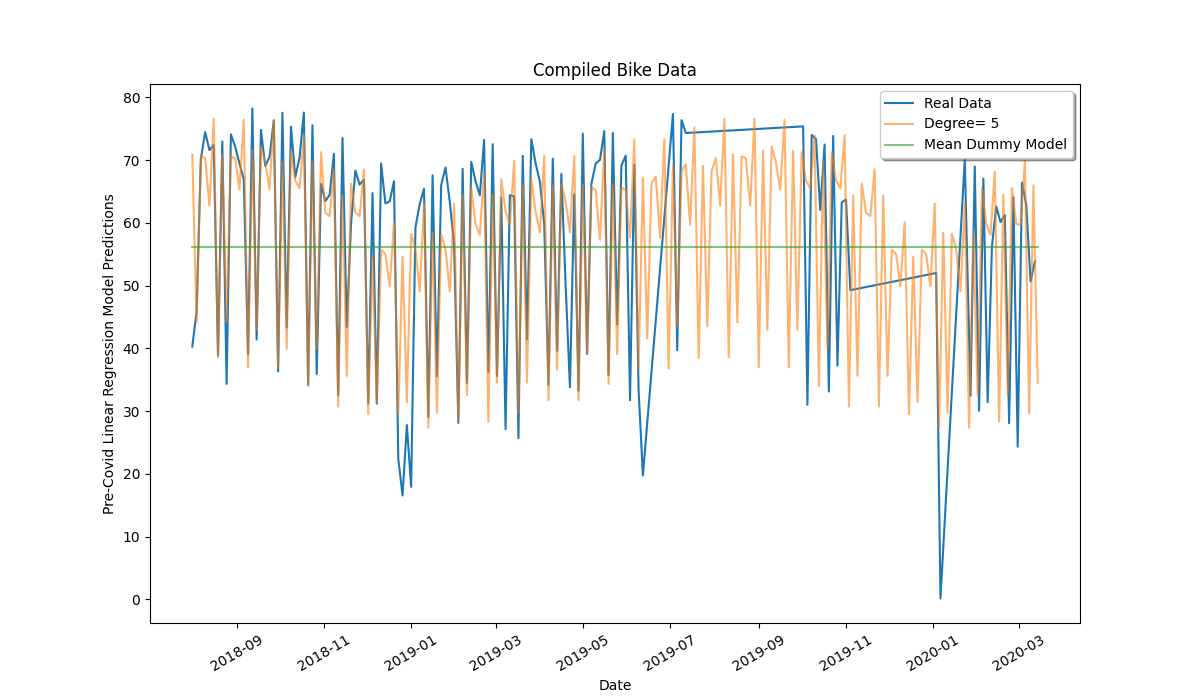
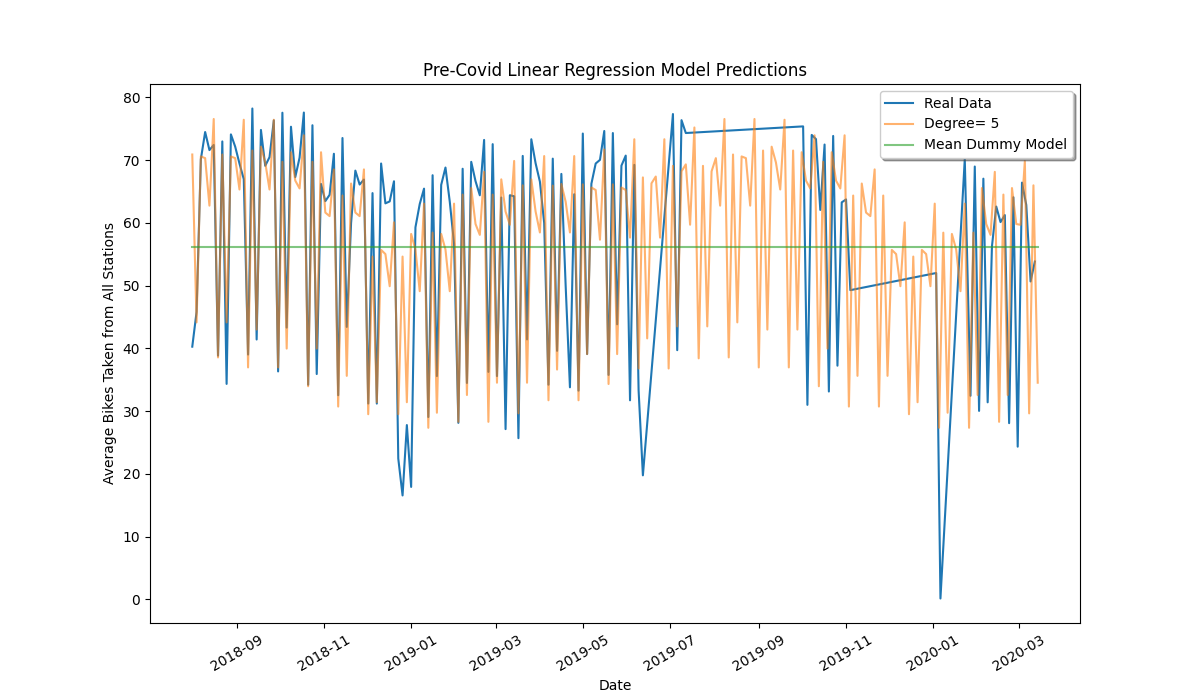
done?

Changed region(s): [[0.0617, 0.33, 0.0925, 0.69], [0.3392, 0.09, 0.6783, 0.12]]

diff --git a/final/main.py b/final/main.py
@@ -1,3 +1,4 @@
+import datetime
 import os.path
 import pandas as pd
 import numpy as np
@@ -7,6 +8,7 @@ from sklearn.dummy import DummyRegressor
 from sklearn.metrics import r2_score
 from sklearn.linear_model import LinearRegression
 from sklearn.preprocessing import PolynomialFeatures
+from statsmodels.tsa.arima.model import ARIMA
 from readfiles import readFiles
 
 plt.rcParams['figure.figsize'] = [12, 7]
@@ -58,7 +60,7 @@ pcWeekDays = weekDays[precovidBA]
 
 # X's: month, weekday
 # Y: Usage
-X = np.column_stack((pcWeekDays,pcMonths))
+pcX = np.column_stack((pcWeekDays,pcMonths))
 
 ## Train and test various models to find best fit parameters
 #Create test X's
@@ -77,7 +79,7 @@ degreePoly = [1, 2, 5, 7]
 for degree in degreePoly:
     #Train and Test
     plt.plot(pcDates[::3], pcUsages[::3])
-    polyX = PolynomialFeatures(degree).fit_transform(np.array(X))
+    polyX = PolynomialFeatures(degree).fit_transform(np.array(pcX))
 
     model = LinearRegression()
     model.fit(polyX, pcUsages)
@@ -96,10 +98,10 @@ for degree in degreePoly:
 
     plt.xticks(rotation=30)
     plt.xlabel("Date")
-    plt.ylabel("Pre-Covid Linear Regression Model Predictions")
+    plt.ylabel("Average Bikes Taken from All Stations")
     stringdegree = "Degree= " + int.__str__(degree)
     plt.legend(["Real Data", stringdegree, "Mean Dummy Model"], loc='upper right',fancybox=True, shadow=True)
-    plt.title("Compiled Bike Data")
+    plt.title("Pre-Covid Linear Regression Model Predictions")
     stringname = "featuremodel" + int.__str__(degree)
     plt.savefig('./Report/' + stringname)
     plt.show()
@@ -111,5 +113,40 @@ for degree in degreePoly:
     print("Mean Dummy model (Degree = ", degree, "):")
     print(r2_score(pcUsages, ydummy[dateisInTestingBA]))
 
+#Best model was the one with degree five
+#Use model trained on pre-covid data to predict
+    
+#Train
 
+polyX = PolynomialFeatures(5).fit_transform(np.array(pcX))
+model = LinearRegression()
+model.fit(polyX, pcUsages)
+
+#Create predict X's
+range = pd.date_range(start="2018-08-01",end="2023-12-31")
+monthsTest = []
+weekDaysTest = []
+for date in range:
+    monthsTest.append(date.month)
+    weekDaysTest.append(date.day_of_week)
+Xpredict = np.column_stack((weekDaysTest,monthsTest))
+polyXp = PolynomialFeatures(5).fit_transform(np.array(Xpredict))
+
+ypred = model.predict(polyXp)
+
+#Plot
+plt.plot(dates[::3],avgUsages[::3], alpha=0.6) #Plot every 3rd day to be able to read graph
+plt.plot(range[::3],ypred[::3], alpha=0.6) #Plot every 3rd day to be able to read graph
+plt.axvline(x = datetime.date(2020, 3, 15))
+plt.axvline(x = datetime.date(2022, 1, 22))
+
+plt.xticks(rotation=30)
+plt.xlabel("Date")
+plt.ylabel("Average Bikes Taken from All Stations")
+stringdegree = "Degree= " + int.__str__(5)
+plt.legend(["Real Data", stringdegree, "Covid Start", "Covid Restrictions End"], loc='upper right',fancybox=True, shadow=True)
+plt.title("Actual Covid Usages vs Model Predicted Usages ")
+stringname = "covidDif" + int.__str__(5)
+plt.savefig('./Report/' + stringname)
+plt.show()
 
